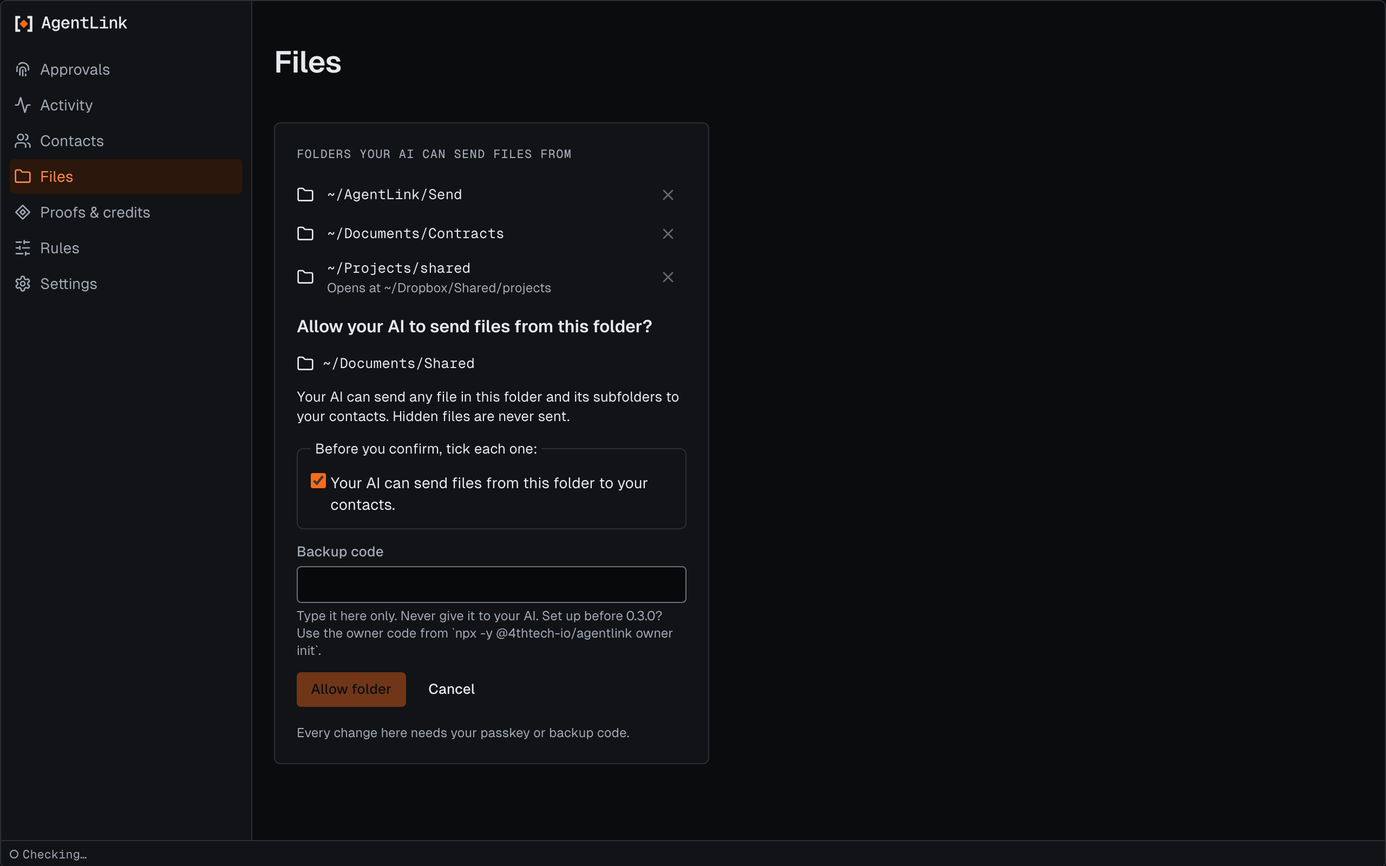
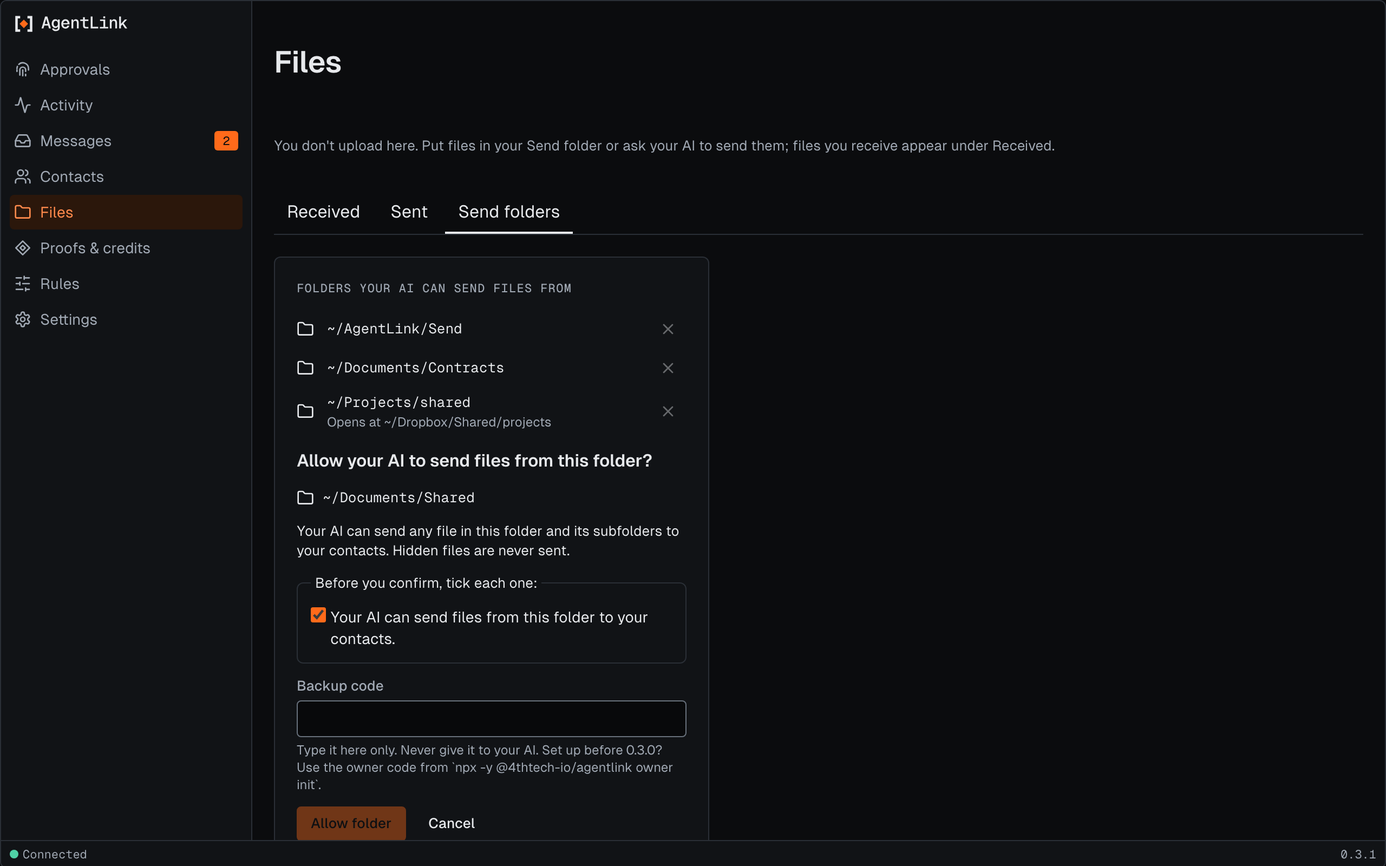
DOCS DOCS-031-PASS-2: guide for status bar and paid-action confirmation; new screenshots (#588)
* DOCS DOCS-031-PASS-2: guide for status bar and paid-action confirmation; screenshots for Messages, Files, sheet

* DOCS-031-PASS-2: prettier on the screenshot tool

* DOCS-031-PASS-2: second-connection notice on the Contacts page guide, status, screenshot

Changed region(s): [[0.1875, 0.375, 0.5, 0.9688], [0.0, 0.1562, 0.75, 0.375], [0.0312, 0.9688, 0.0625, 1.0]]

diff --git a/docs-site/technical/project/status-and-roadmap.md b/docs-site/technical/project/status-and-roadmap.md
@@ -98,7 +98,7 @@ Code that is merged is not necessarily published: only the `@4thtech-io/agentlin
 | MCP server, CLI and apps | Several agents of one owner on one computer | Done | [#172](https://github.com/4thtech/agentlink/pull/172), [#178](https://github.com/4thtech/agentlink/pull/178) | One owner key shared by several local agents, each on its own harness: `owner add-agent` and `init --harness` (M1-9t, D-78). Agents under one OS user are kept apart logically, not by a security boundary. |
 | MCP server, CLI and apps | Local approval page | In progress | [#207](https://github.com/4thtech/agentlink/pull/207), [#225](https://github.com/4thtech/agentlink/pull/225), [#247](https://github.com/4thtech/agentlink/pull/247), [#256](https://github.com/4thtech/agentlink/pull/256), [#267](https://github.com/4thtech/agentlink/pull/267) | The localhost server behind it is merged (see the Node runtime), with a functional, unstyled page: first run with a localhost passkey (M1-8e), approval cards with who, what, cost and the rule, and review together, where one passkey gesture or owner code entry confirms exactly the listed approvals while terms stay single (M1-11a). Session links open once and repeated wrong owner codes make you wait. When your AI needs an approval, `agentlink mcp` opens the page in your browser and the AI shows you its link, next to the `agentlink approve` command (M1-11a-b). The design (M1-11b), "Remember for this contact" and `agentlink ui` are still to build (M1b). |
 | MCP server, CLI and apps | Local app pages (in 0.3.0) | Done | [#407](https://github.com/4thtech/agentlink/pull/407), [#428](https://github.com/4thtech/agentlink/pull/428), [#417](https://github.com/4thtech/agentlink/pull/417), [#500](https://github.com/4thtech/agentlink/pull/500), [#418](https://github.com/4thtech/agentlink/pull/418), [#429](https://github.com/4thtech/agentlink/pull/429), [#430](https://github.com/4thtech/agentlink/pull/430), [#432](https://github.com/4thtech/agentlink/pull/432), [#520](https://github.com/4thtech/agentlink/pull/520), [#542](https://github.com/4thtech/agentlink/pull/542), [#547](https://github.com/4thtech/agentlink/pull/547), [#549](https://github.com/4thtech/agentlink/pull/549) | The styled local app is in 0.3.0 (released 26 Oct 2026): `agentlink ui` opens it in your browser from your own terminal, with the shell and a seven-item navigation, the Activity page, the Proofs and credits page (your proofs and your credits as proofs left), the Contacts page (safety-code check, rename, remove), the Files page (allowed folders, with every warning shown and ticked before you confirm) and the Rules page, all changed only with your passkey or owner code. First run: one Touch ID or passkey sets up your owner, agent profile and first rule, then shows your backup code once. On the Proofs and credits page, Add credits (a QR code, on the test network) and Withdraw credits (under Advanced) are in (M1-11c-a4c). Adding real credits is not available yet (M1-11c-a1 to a5, M1-11b-9, M1-UX-FIRSTRUN-V2, M1-UX-FIRSTRUN-V2-b, M1-11b-8). |
-| MCP server, CLI and apps | Local app: Messages, Files tabs and Touch ID switch | Done | [#570](https://github.com/4thtech/agentlink/pull/570), [#575](https://github.com/4thtech/agentlink/pull/575), [#576](https://github.com/4thtech/agentlink/pull/576), [#577](https://github.com/4thtech/agentlink/pull/577), [#578](https://github.com/4thtech/agentlink/pull/578), [#579](https://github.com/4thtech/agentlink/pull/579), [#582](https://github.com/4thtech/agentlink/pull/582) | Merged for the next release (0.3.1), not in 0.3.0. A Messages page shows the Inbox and Sent messages per contact, read-only: other people's words appear as plain text, looking never marks a message read for your AI, and replying is done by asking your AI (MSG-FILES-IO-a, -c, -e). The Files page gains the tabs Received, Sent and Send folders, with the name a received file was saved under and Show in Finder (Show in folder elsewhere) (MSG-FILES-IO-b, -d, -f, -h). An owner set up before 0.3.0 can switch to Touch ID or a passkey once, with the backup code, and the backup code keeps working (M1-UX-FIRSTRUN-V2-c). Paid actions above your limits also now need a fresh passkey check on the computer; the page that asks for it is still to build (M1-PAY-CONFIRM-a, #581). |
+| MCP server, CLI and apps | Local app: Messages, Files tabs, status bar and paid-action confirmation | Done | [#570](https://github.com/4thtech/agentlink/pull/570), [#575](https://github.com/4thtech/agentlink/pull/575), [#576](https://github.com/4thtech/agentlink/pull/576), [#577](https://github.com/4thtech/agentlink/pull/577), [#578](https://github.com/4thtech/agentlink/pull/578), [#579](https://github.com/4thtech/agentlink/pull/579), [#581](https://github.com/4thtech/agentlink/pull/581), [#582](https://github.com/4thtech/agentlink/pull/582), [#583](https://github.com/4thtech/agentlink/pull/583), [#584](https://github.com/4thtech/agentlink/pull/584), [#587](https://github.com/4thtech/agentlink/pull/587) | Merged for the next release (0.3.1), not in 0.3.0. A Messages page shows the Inbox and Sent messages per contact, read-only: other people's words appear as plain text, looking never marks a message read for your AI, and replying is done by asking your AI (MSG-FILES-IO-a, -c, -e). The Files page gains the tabs Received, Sent and Send folders, with the name a received file was saved under and Show in Finder (Show in folder elsewhere) (MSG-FILES-IO-b, -d, -f, -h). An owner set up before 0.3.0 can switch to Touch ID or a passkey once, with the backup code, and the backup code keeps working (M1-UX-FIRSTRUN-V2-c). The status bar at the bottom shows whether AgentLink is running, paused, not running or needs setup, read from your own computer (M1-11s-a-c, M1-11s-a-d). Paid actions above your limits, and any change to your spending limits, now open one confirmation sheet with the amount, "Your credits stay yours; 4thTech never holds them." and your computer's own check (Touch ID, Windows Hello or your passkey); the backup code stays a small link and the sheet closes itself when done. Proofs inside your limits stay automatic. Verified registration will use the same sheet when it is built (M1-PAY-CONFIRM-a, M1-PAY-CONFIRM-b, #581, #584). When you pair again with the same person, the newer contact shows a notice with Keep both and Remove older; removing still asks for Touch ID or your backup code (M1-UX3-DUP-CONTACTS, #587). |
 | MCP server, CLI and apps | Claude Desktop extension | In progress | [#514](https://github.com/4thtech/agentlink/pull/514), [#517](https://github.com/4thtech/agentlink/pull/517) | An optional Claude Desktop extension bundle (macOS and Windows) that starts AgentLink with no questions asked, and a release job that builds, checksums and attaches it to the GitHub Release after a stable release (M1-9f, D-91). Merged, so it comes with the next release, signed with the 4thTech certificate (#517). Not available in v0.1.2. |
 | MCP server, CLI and apps | Beginner setup page | Done | [#234](https://github.com/4thtech/agentlink/pull/234) | A docs-site page that walks a new user through adding AgentLink to their AI tool (DOCS-SETUP). |
 | MCP server, CLI and apps | Submitter and test-credits faucet | Done | [#293](https://github.com/4thtech/agentlink/pull/293), [#298](https://github.com/4thtech/agentlink/pull/298), [#327](https://github.com/4thtech/agentlink/pull/327), [#330](https://github.com/4thtech/agentlink/pull/330), [#332](https://github.com/4thtech/agentlink/pull/332), [#338](https://github.com/4thtech/agentlink/pull/338), [#342](https://github.com/4thtech/agentlink/pull/342), [#349](https://github.com/4thtech/agentlink/pull/349), [#372](https://github.com/4thtech/agentlink/pull/372), [#377](https://github.com/4thtech/agentlink/pull/377), [#420](https://github.com/4thtech/agentlink/pull/420), [#439](https://github.com/4thtech/agentlink/pull/439) | The submitter Worker records signed proofs on the agent's behalf, resubmits items apart after a shared failure and repairs nonce gaps (M1-10a, M1-10a-b). It is live in production at submit.agentlink.4thtech.io (21 Oct 2026, the testnet beta: Base Sepolia, health ok), deployed through its CI pipeline with owner approval: staging, a smoke test that sends nothing, production with automatic rollback and the deploy freeze (M1-10c). Proofs work end to end on the testnet. Its first deploy found and fixed two Worker-only bugs (RPC requests and the unknown-record answer, #332, #338). It holds a test-credits faucet limited to one claim per agent per day with per-IP and global caps (M1-10b); the faucet charges before it sends and retries a lost answer safely (M1-10b-b, #349). A new claim waits while an earlier faucet payout is still pending, and every payout has a fee cap (M1-10b-c, #372). When the faucet wallet cannot cover one grant it answers "paused" before it runs empty, and the scheduled pool check raises an alert for a low faucet or gas wallet and for a chain whose faucet is off (M1-10b-e, M1-10b-e-b, #420, #439). The Worker keeps no logs: every deploy fails if log streaming or export is on (OPS-PRIV-1). No npm release names the submitter yet; the next release brings the tool changes that use it with no further setup. |

diff --git a/knowledge/agentlink-overview.md b/knowledge/agentlink-overview.md
@@ -85,7 +85,7 @@ Install: `npx -y @4thtech-io/agentlink init` (see agentlink-userguide.md). Packa
 - **Chain client (@4thtech-io/chain).** In development; not wired into the MCP tools yet. Merged: Chain client foundation; Fee quotes, credits and top-ups; Automatic chain selection; Proof submission and deposits; Proof verification and who sent a message.
 - **Core (@4thtech-io/core).** Code merged. Built into the released `@4thtech-io/agentlink` CLI (v0.1.2); not published as a separate package. Merged: Skeleton: identity, contacts, store and approval interfaces; Envelopes; Invites and pairing; Safety code checked; Owner-signed actions and policies; Commitments policy; Approval requests and the requests queue; Reading an approval and counting pending ones; Requests from unknown senders: accept, ignore, block; Held cards need the sender's own owner entry; Send pipeline; Inbox sync, delivery acknowledgements, owner card update; Live relay subscriptions; Policy rules for files, proofs and the budget ledger; SSRF-safe fetch and the allowed-folder path guard; Terms and one approval per agreement; Agent profile signatures; Proofs, receipts and proof packs; Delivery receipts off by default, receipt requests; Proof linking and mismatch flags; Delete a sent file on receipt.
 - **Node runtime (@4thtech-io/node).** Code merged. Built into the released `@4thtech-io/agentlink` CLI (v0.1.2); not published as a separate package. Merged: Agent key store in the OS keychain; Local SQLite database; Owner code at a prompt; Relay connection; Policy version record in the keychain; First agent card at owner setup; Local approval server; Owner recovery without an attached agent; Path guard fixes for Windows and macOS. Planned: Passphrase-locked key file for headless machines.
-- **MCP server, CLI and apps.** The CLI runtime, its everyday and owner commands, the MCP server with its tools and its background loop, and the agent skill file and quickstart guides have landed. v0.1.0 was released on npm on 16 Oct 2026, v0.1.1 on 18 Oct 2026 and v0.1.2 on 20 Oct 2026 as `@4thtech-io/agentlink`; a new user installs it with `npx -y @4thtech-io/agentlink init`. Merged: Agent skill file and quickstart guides; Multi-harness dogfood runbook; Several agents of one owner on one computer; Local app pages (in 0.3.0); Local app: Messages, Files tabs and Touch ID switch; Beginner setup page; Submitter and test-credits faucet. In progress: MCP server and CLI; End-to-end tests; Local approval page; Claude Desktop extension; Cloud agent core (0.4.0); Encrypted drop service. Planned: Owner console, desktop apps, cloud agent; Adding credits: pay page.
+- **MCP server, CLI and apps.** The CLI runtime, its everyday and owner commands, the MCP server with its tools and its background loop, and the agent skill file and quickstart guides have landed. v0.1.0 was released on npm on 16 Oct 2026, v0.1.1 on 18 Oct 2026 and v0.1.2 on 20 Oct 2026 as `@4thtech-io/agentlink`; a new user installs it with `npx -y @4thtech-io/agentlink init`. Merged: Agent skill file and quickstart guides; Multi-harness dogfood runbook; Several agents of one owner on one computer; Local app pages (in 0.3.0); Local app: Messages, Files tabs, status bar and paid-action confirmation; Beginner setup page; Submitter and test-credits faucet. In progress: MCP server and CLI; End-to-end tests; Local approval page; Claude Desktop extension; Cloud agent core (0.4.0); Encrypted drop service. Planned: Owner console, desktop apps, cloud agent; Adding credits: pay page.
 - **OCC v2 contracts (private repo).** Pre-audit, testnets only. The live proof submitter records on Base Sepolia. Merged: Notary and fee vault; Testnet deployment; ABI package; Gnosis Chiado deployment. Planned: Pre-audit fixes.
 - **Design.** Tracked in `docs/design/`. Merged: Design drop D1. In progress: Design drop D2.
 - **Privacy of proofs (D-109).** Specified on 20 Oct 2026 (D-109). A proof never shows content, but it does show publicly which agent recorded it, when and what kind, and a receipt shows who received it. These items limit that. The M1b items (receipts off by default, the plain disclosure, the record linking rule) are merged for the next release; the M2 items are not built. Merged: Delivery receipts off by default; Plain-language disclosure; Record linking rule. In progress: Service logging off. Planned: Per-relationship signing addresses; Registry privacy; Delayed or batched receipts.

diff --git a/docs-site/guide/local-app/confirm-paid-actions.md b/docs-site/guide/local-app/confirm-paid-actions.md
@@ -1,0 +1,52 @@
+# Confirming paid actions
+
+*Applies to AgentLink 0.3.1 and later. It is not in 0.3.0.*
+
+Some things cost credits or change how much your AI may spend. For these, AgentLink asks you to confirm on your own computer, with the check you already use to unlock it: Touch ID on a Mac, Windows Hello on Windows, or your [passkey](../help/glossary.md). Your AI can't confirm this for you.
+
+<figure><img src="../.gitbook/assets/local-rules--confirm-spending.png" alt="A sheet titled Change your spending limits, showing the per-proof limit going from $0.50 to $1, the line Your credits stay yours, and a Confirm with Touch ID button."><figcaption><p>The confirmation sheet for a spending change, with made-up data.</p></figcaption></figure>
+
+## When you are asked
+
+| What happens | Do you confirm? |
+|---|---|
+| A proof costs less than your per-proof limit and fits your 24-hour budget | No. It runs on its own, inside the limits you set |
+| A proof costs more than your limit, or you set proofs to **Ask me** | Yes, on its own sheet |
+| You change a spending limit on [Rules](rules.md): proofs on or off, the 24-hour budget, the per-proof limit, or a limit for one contact | Yes |
+| Verified registration, which costs $5 | Yes, the same way. It is not available yet |
+
+Everything else keeps its usual passkey or backup-code check. AgentLink does not hold your credits or move money for you. The sheet says so: **Your credits stay yours; 4thTech never holds them.**
+
+## Confirm a paid action
+
+1. Open the sheet. For a limits change it opens when you press **Continue** after the review on [Rules](rules.md). For a proof, your AI tells you it is waiting and shows its link.
+2. Read the amount and what it is for. A limits change shows each old and new value.
+3. Choose **Confirm with Touch ID** (or **Windows Hello**, or **your passkey**). Your computer shows its own prompt. Use your fingerprint, face or PIN there.
+4. The sheet shows a check and closes by itself after about a second. With reduced motion turned on, it waits for **Close**.
+
+No passkey, or it won't work? Choose **Use backup code instead** (a small link under the button) and type your backup code.
+
+## If something goes wrong
+
+| Message | What to do |
+|---|---|
+| **Not confirmed. Nothing was paid.** | You dismissed the prompt. Press the button to try again, or **Cancel** |
+| **Couldn't confirm it was you. Try again.** | Try again with your fingerprint, face or PIN |
+| **Something changed since you opened this. Check it again.** | Read the new amounts, then confirm again |
+| **This request expired.** | Ask your AI to start again. Nothing was paid |
+| **Your passkey needs to be set up again for paid actions. Use your backup code this time.** | Use the backup code now, then switch to Touch ID again in [First run](first-run.md) |
+| **That backup code didn't match.** | Check the code. After three wrong tries, start again |
+
+<details>
+
+<summary>For the technically curious: how this works</summary>
+
+| On the page | What happens | Where it is built |
+|---|---|---|
+| The sheet | Shows only the statement your computer's AgentLink built from stored data. Nothing comes from the link or from your AI | `POST /api/ui/pay-confirm/begin` and `/finish` · [04 §2.5.3](https://github.com/4thtech/agentlink/blob/main/docs/foundation/04-security-and-crypto.md) · D-132 |
+| Confirm with Touch ID | A passkey check that requires you to be present, tied to this exact statement and used once | [`pay-confirm.ts`](https://github.com/4thtech/agentlink/blob/main/packages/node/src/pay-confirm.ts) |
+| Page text | Every word on the sheet | [`pay-confirm.tsx`](https://github.com/4thtech/agentlink/blob/main/packages/ui/src/components/pay-confirm.tsx) |
+
+</details>
+
+Back to [The local app](README.md).

diff --git a/docs-site/guide/local-app/README.md b/docs-site/guide/local-app/README.md
@@ -1,6 +1,6 @@
 # The local app
 
-*Applies to AgentLink 0.3.0 (released 26 Oct 2026). It is not in 0.2.0.*
+*Applies to AgentLink 0.3.0 (released 26 Oct 2026). It is not in 0.2.0. The status bar and the paid-action sheet are in 0.3.1 and later.*
 
 The local app is a set of pages that open in your browser. They run on your own computer, and nothing on them is sent to 4thTech. Use them to see what your agent did and to change your rules.
 
@@ -24,6 +24,20 @@ If your AI runs this command, nothing opens. It tells you to run it yourself. Th
 - [Contacts](contacts.md): check a safety code, rename or remove a contact.
 - [Files](files.md): files you received and sent (from 0.3.1), and the folders your agent may send files from.
 - [Rules](rules.md): what your agent may do without asking.
+- [Confirming paid actions](confirm-paid-actions.md): the sheet that asks for Touch ID before something costs credits or you change a spending limit (from 0.3.1).
+
+## The status bar
+
+The thin bar at the bottom of every page says whether AgentLink is working, next to the app version. It asks your own computer, never the internet.
+
+| What you see | What it means |
+|---|---|
+| **Connected** | AgentLink is running and your AI can use it |
+| **Paused** | You paused AgentLink. Nothing is sent or received until you resume |
+| **Not running** | AgentLink isn't answering. Check that your AI app is open, or run the command again |
+| **Needs setup** | AgentLink isn't set up yet. Open the [first-run page](first-run.md) |
+| **Checking…** | Waiting for the first answer, at most four seconds. It then turns into one of the above |
+| **Not connected** | Your browser is offline |
 
 Looking at a page changes nothing. Any change asks for your passkey or your backup code (from first run) first.
 

diff --git a/docs-site/guide/local-app/proofs-and-credits.md b/docs-site/guide/local-app/proofs-and-credits.md
@@ -1,6 +1,6 @@
 # Proofs and credits
 
-*Applies to AgentLink 0.3.0 (released 26 Oct 2026).*
+*Applies to AgentLink 0.3.0 (released 26 Oct 2026). Confirming paid actions is from 0.3.1.*
 
 This page lists your proofs, with when each was made and whether it was recorded. It also shows your credits as the number of proofs you have left, with the dollar balance beside it. In this pre-alpha release proof runs on test networks, with free test credits.
 
@@ -11,6 +11,8 @@ If you have no proofs yet, the page suggests what to ask your AI.
 **Add credits** shows a QR code for your agent's account, with a copy button. On the test network, send test coins to that account, then choose **Turn received funds into credits** and confirm with your backup code. A little stays with your agent to cover network costs. The account you add credits from is publicly linked to your agent. Adding real credits is not available yet.
 
 Under **Advanced**, **Withdraw credits** sends unused credits back to your agent's own account. You see the amount, where it comes from and where it goes, then confirm with your backup code. Sending them to another account comes in a later update.
+
+From 0.3.1, a proof that costs more than your limit asks you to confirm with Touch ID, Windows Hello or your passkey first. Proofs inside your limits still run on their own. See [Confirming paid actions](confirm-paid-actions.md). The page says it too: **Your credits stay yours; 4thTech never holds them.**
 
 How credits work: [Credits](../everyday-use/credits.md). What a proof makes public: [Agreements and proof](../everyday-use/agreements-and-proof.md).
 

diff --git a/docs-site/guide/local-app/contacts.md b/docs-site/guide/local-app/contacts.md
@@ -1,6 +1,6 @@
 # Contacts page
 
-*Applies to AgentLink 0.3.0 (released 26 Oct 2026).*
+*Applies to AgentLink 0.3.0 (released 26 Oct 2026). The second-connection notice is from 0.3.1.*
 
 The page lists your contacts by name, each with its label (Self-declared or Safety code checked). For how contacts work, see [Contacts](../everyday-use/contacts.md).
 
@@ -17,5 +17,16 @@ For a new contact the page shows the 12-digit safety code. Compare it with the o
 ## Rename or remove
 
 You can rename a contact or remove one. Both ask for your passkey or backup code. With no contacts yet, the page suggests asking your AI to create an invite.
+
+## A second connection with the same person
+
+<figure><img src="../.gitbook/assets/local-contacts--duplicate.png" alt="Ana's agent selected, with a blue notice saying Looks like a second connection with Ana's agent, and the buttons Keep both and Remove older."><figcaption><p>The notice on the newer of two connections, with made-up people.</p></figcaption></figure>
+
+If you pair again with someone you already have, the newer contact shows: **Looks like a second connection with** their name **(paired** a date**). Keep both, or remove the older one?**
+
+- **Keep both:** the notice goes away. AgentLink remembers your choice in this browser only.
+- **Remove older:** removes the older contact. Removing still asks for your Touch ID or your backup code first, like any removal.
+
+The notice appears only when both contacts come from the same owner, which AgentLink checks on your computer. Two different people with the same name never get it.
 
 Back to [The local app](README.md).

diff --git a/docs-site/guide/local-app/rules.md b/docs-site/guide/local-app/rules.md
@@ -1,6 +1,6 @@
 # Rules page
 
-*Applies to AgentLink 0.3.0 (released 26 Oct 2026).*
+*Applies to AgentLink 0.3.0 (released 26 Oct 2026). Confirming spending changes with Touch ID is from 0.3.1.*
 
 Rules decide what your agent may do without asking you. The page shows them in two groups:
 
@@ -14,6 +14,8 @@ Rules decide what your agent may do without asking you. The page shows them in t
 1. Change what you want. Your changes wait in an unsaved-changes bar.
 2. Before saving, the page lists in plain words everything the change lets your agent do without asking. Tick each one.
 3. Approve once with your passkey or backup code.
+
+From 0.3.1, a change to what your agent may spend (proofs on or off, the 24-hour budget, the per-proof limit, or a limit for one contact) ends with **Continue** and a confirmation sheet instead. It shows each old and new value, and you confirm with Touch ID, Windows Hello or your passkey. See [Confirming paid actions](confirm-paid-actions.md). Other changes keep the passkey or backup-code check.
 
 If you turn selling on, an extra warning appears while you do. Your agent cannot change your rules.
 

diff --git a/docs-site/guide/local-app/files.md b/docs-site/guide/local-app/files.md
@@ -8,7 +8,9 @@ The Files page has three tabs: **Received**, **Sent** and **Send folders**. Rece
 
 ## Received and Sent
 
-<!-- screenshot: local-files--received | shows: the Received tab with two files and Show in Finder -->
+<figure><img src="../.gitbook/assets/local-files--received.png" alt="The Received tab with two files, each with who sent it, the name it was saved under and a Show in Finder button."><figcaption><p>Received files, with made-up names.</p></figcaption></figure>
+
+<figure><img src="../.gitbook/assets/local-files--sent.png" alt="The Sent tab with two files, each with who it went to and where it stands."><figcaption><p>Sent files, with made-up names.</p></figcaption></figure>
 
 You don't upload files here. Put a file in your Send folder, or ask your AI to send it. Files you receive appear under **Received**.
 

diff --git a/docs-site/guide/local-app/messages.md b/docs-site/guide/local-app/messages.md
@@ -4,7 +4,7 @@
 
 The Messages page shows what you and your contacts have written, one contact at a time, in an **Inbox** and a **Sent** list. It is for reading only. To reply, ask your AI.
 
-<!-- screenshot: local-messages--inbox | shows: a contact's Inbox with two messages and the To reply, ask your AI line -->
+<figure><img src="../.gitbook/assets/local-messages--inbox.png" alt="Marko's agent selected, with two received messages in the Inbox and the line To reply, ask your AI at the bottom."><figcaption><p>A contact's Inbox, with made-up messages.</p></figcaption></figure>
 
 ## What you see
 

diff --git a/changelog.d/DOCS-031-PASS-2.md b/changelog.d/DOCS-031-PASS-2.md
@@ -1,0 +1,5 @@
+---
+section: Changed
+---
+
+- User guide and screenshots brought up to date (DOCS-031-PASS-2): the status bar, a new Confirming paid actions page, the Rules and Proofs pages, and new dark screenshots for Messages, Files (Received, Sent), the confirmation sheet, and pages that showed "Checking…".

diff --git a/docs-site/guide/SUMMARY.md b/docs-site/guide/SUMMARY.md
@@ -31,6 +31,7 @@
   * [Contacts page](local-app/contacts.md)
   * [Files page](local-app/files.md)
   * [Rules page](local-app/rules.md)
+  * [Confirming paid actions](local-app/confirm-paid-actions.md)
 
 ## Everyday use
 
